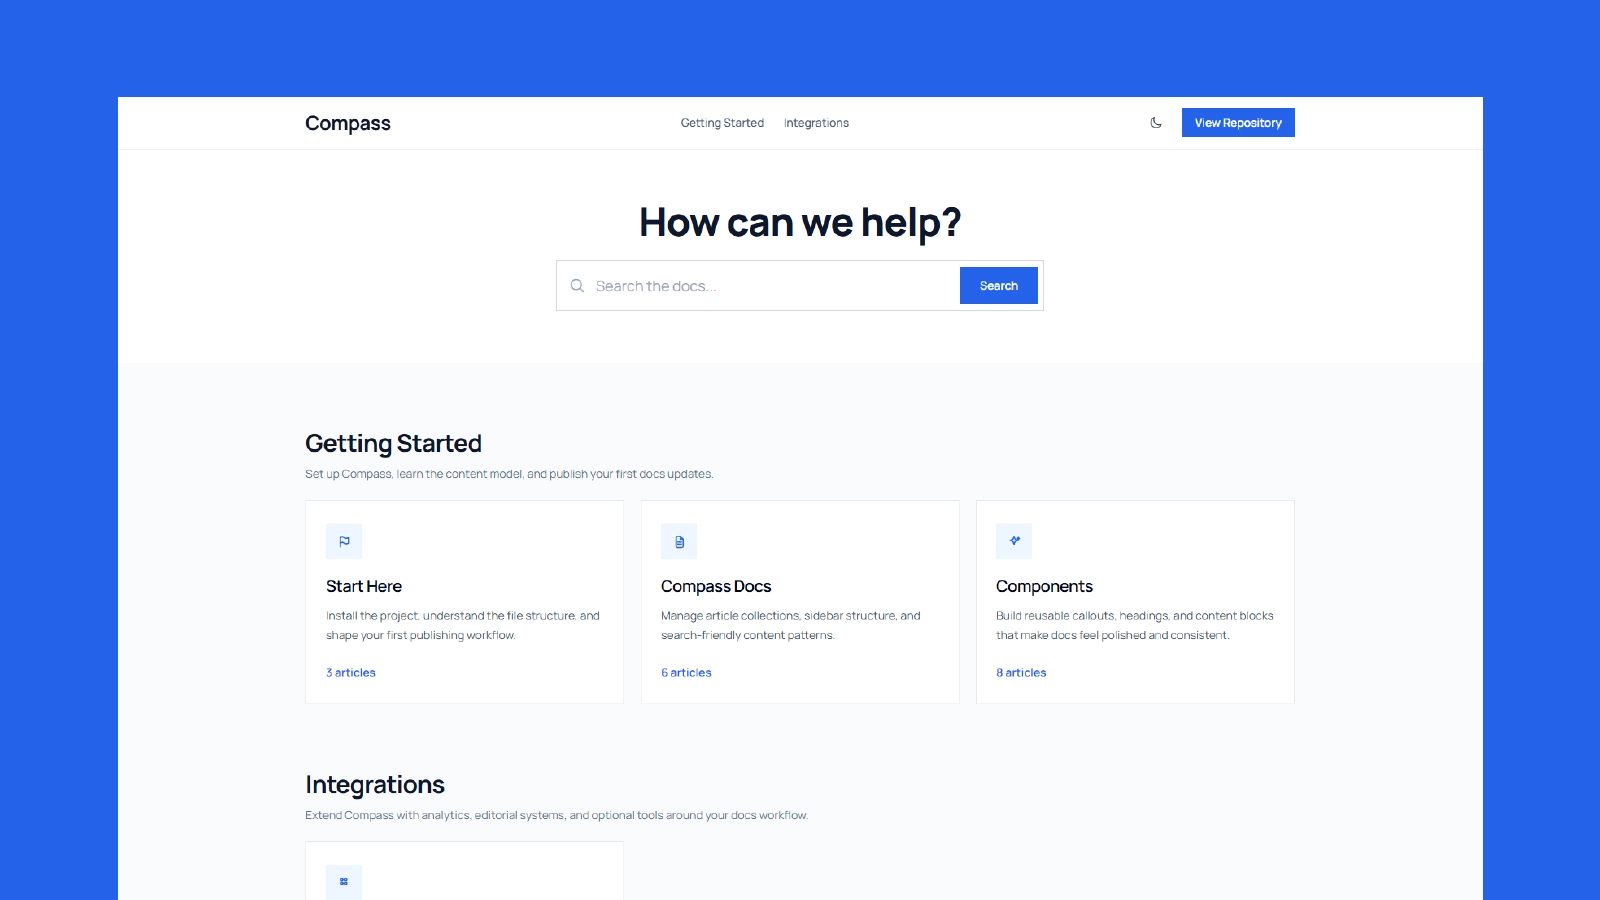
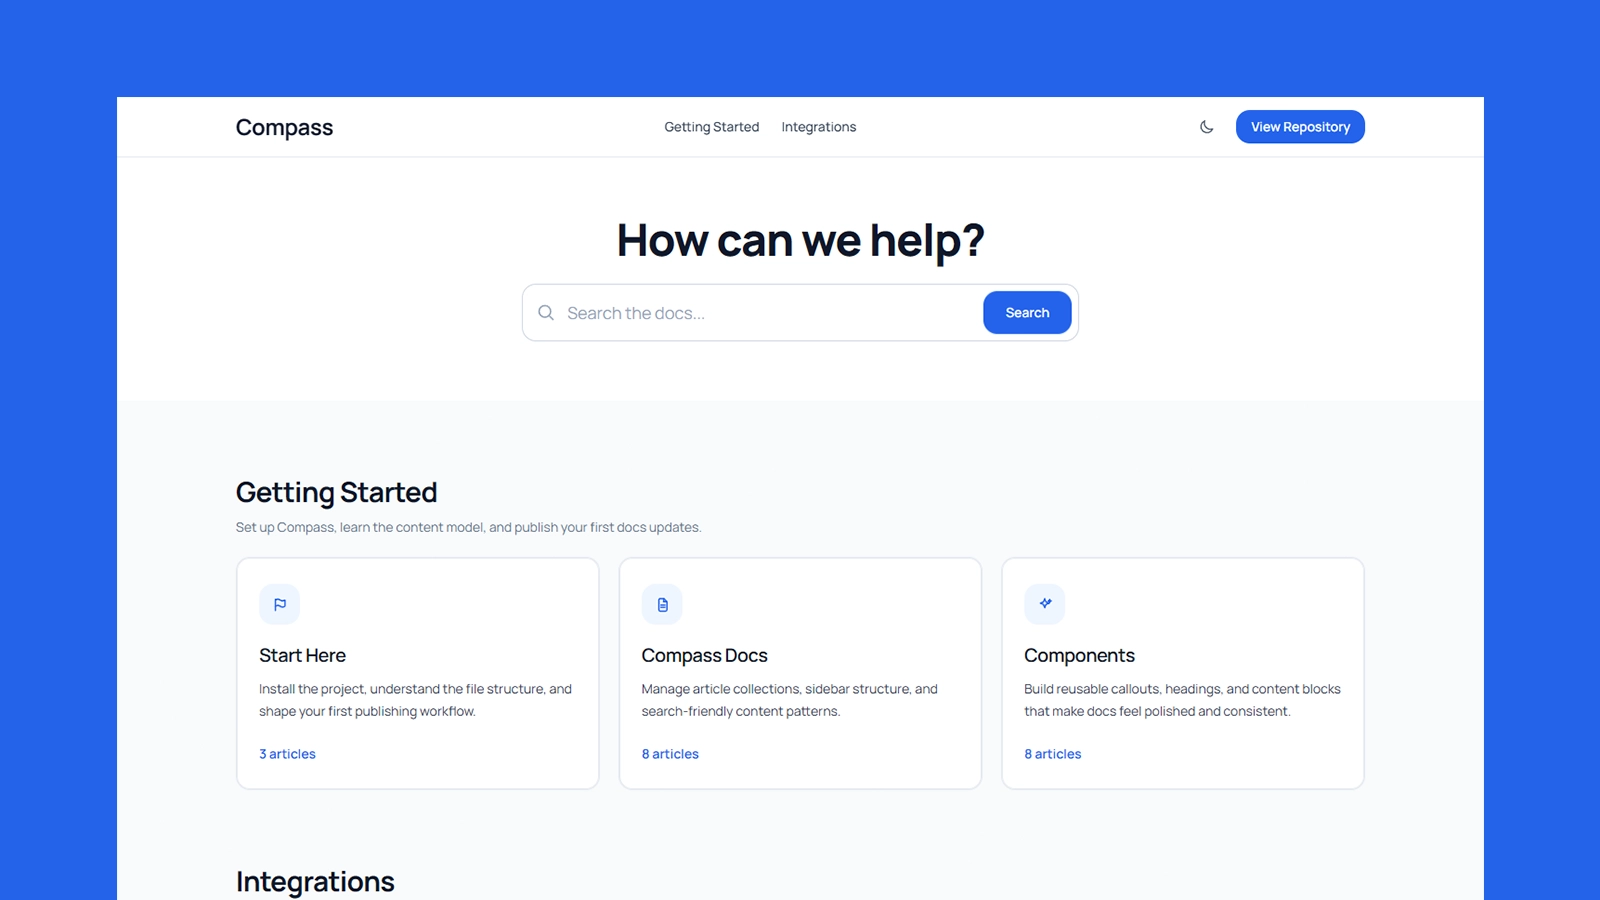
Restore rounded UI and add article image lightbox

diff --git a/src/index.css b/src/index.css
@@ -5,9 +5,9 @@
   --font-sans: "Manrope Variable", ui-sans-serif, system-ui, sans-serif;
 }
 
-/* Design choice: Compass uses sharp corners throughout the UI.
-   Keep `rounded-none` and zero-radius styles unless the design direction changes intentionally. */
+/* Shared component radius for cards, panels, controls, and docs UI. */
 :root {
+  --radius-ui: 15px;
   --color-canvas: #f8fafc;
   --color-surface: #ffffff;
   --color-surface-muted: #f8fafc;
@@ -224,7 +224,7 @@ body {
   position: relative;
   overflow-x: auto;
   border: 1px solid var(--color-code-block-border);
-  border-radius: 0;
+  border-radius: var(--radius-ui);
   background-color: var(--color-code-block-bg) !important;
   box-shadow: none;
   padding: 3.5rem 1.25rem 1rem;
@@ -317,7 +317,7 @@ html.dark .astro-code[data-language='text'] span {
   width: 2.25rem;
   align-items: center;
   justify-content: center;
-  border-radius: 0;
+  border-radius: var(--radius-ui);
   padding: 0;
   cursor: pointer;
   transition: color 150ms ease, border-color 150ms ease, background-color 150ms ease;
@@ -474,7 +474,116 @@ html.dark .astro-code[data-language='text'] span {
 
 .docs-article .prose :where(img) {
   border: 1px solid var(--color-border);
+  border-radius: var(--radius-ui);
   background: var(--color-surface);
+}
+
+.docs-article :where(img[data-lightbox-image]) {
+  cursor: zoom-in;
+}
+
+.docs-lightbox-trigger {
+  display: inline-block;
+  max-width: 100%;
+  padding: 0;
+  border: 0;
+  border-radius: var(--radius-ui);
+  background: transparent;
+  text-align: inherit;
+}
+
+.docs-lightbox-trigger:focus-visible {
+  outline: 2px solid var(--color-accent);
+  outline-offset: 4px;
+}
+
+.docs-lightbox-overlay {
+  position: fixed;
+  inset: 0;
+  z-index: 80;
+  display: flex;
+  align-items: center;
+  justify-content: center;
+  padding: 1.5rem;
+  background: rgb(15 23 42 / 0.82);
+  backdrop-filter: blur(10px);
+}
+
+.docs-lightbox-overlay[hidden] {
+  display: none;
+}
+
+.docs-lightbox-backdrop {
+  position: absolute;
+  inset: 0;
+  border: 0;
+  background: transparent;
+  cursor: zoom-out;
+}
+
+.docs-lightbox-dialog {
+  position: relative;
+  z-index: 1;
+  width: min(100%, 1200px);
+  max-height: 100%;
+  overflow: auto;
+}
+
+.docs-lightbox-figure {
+  margin: 0;
+}
+
+.docs-lightbox-image {
+  display: block;
+  max-height: calc(100vh - 7rem);
+  width: auto;
+  max-width: 100%;
+  margin: 0 auto;
+  border: 1px solid var(--color-border);
+  border-radius: var(--radius-ui);
+  background: var(--color-surface);
+  box-shadow: 0 24px 70px -28px rgb(15 23 42 / 0.7);
+}
+
+.docs-lightbox-caption {
+  margin: 0.9rem auto 0;
+  max-width: min(100%, 70ch);
+  text-align: center;
+  color: white;
+  font-size: 0.95rem;
+  line-height: 1.6;
+}
+
+.docs-lightbox-close {
+  position: absolute;
+  top: 1rem;
+  right: 1rem;
+  z-index: 2;
+  display: inline-flex;
+  align-items: center;
+  justify-content: center;
+  width: 3rem;
+  height: 3rem;
+  padding: 0;
+  border: 1px solid rgb(255 255 255 / 0.14);
+  border-radius: 18px;
+  background: rgb(15 23 42 / 0.52);
+  backdrop-filter: blur(14px);
+  color: white;
+  cursor: pointer;
+  box-shadow: 0 18px 36px -20px rgb(15 23 42 / 0.65);
+  transition: transform 150ms ease, background-color 150ms ease, border-color 150ms ease;
+}
+
+.docs-lightbox-close svg {
+  width: 1rem;
+  height: 1rem;
+}
+
+.docs-lightbox-close:hover {
+  transform: translateY(-1px);
+  border-color: rgb(255 255 255 / 0.24);
+  background: rgb(15 23 42 / 0.68);
 }
 
 .docs-step-body > :where(p, ul, ol, blockquote, pre, .astro-image) + :where(img, picture, .astro-image),
@@ -564,7 +673,7 @@ html.dark .astro-code[data-language='text'] span {
 }
 
 .docs-button {
-  border-radius: 0;
+  border-radius: var(--radius-ui);
 }
 
 .prose a.docs-button {